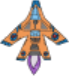
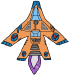
rocket_launcher mar ki rajzolodik + player(5hp), runner(5hp) kep elesites

Changed region(s): [[0.0, 0.0, 1.0, 1.0]]

diff --git a/enemies/rocket_launchers.py b/enemies/rocket_launchers.py
@@ -28,17 +28,17 @@ class RocketLauncher:
         self.dir_y = None
         self.health = 4
         self.STATE = RocketLauncher.STATE_INIT
-        self.form = None
+        self.form = pygame.image.load("Pictures/enemies_pictures/rocket_launchers/rocket_launcher_4_hp.png")
+        self.r = None
         self.start_time = 0
         self.speed = 75
 
-
     def draw(self, context: PygameContext):
-        r = pygame.Rect(self.x - self.width / 2,
+        self.r = pygame.Rect(self.x - self.width / 2,
                         self.y - self.height / 2, self.width,
                         self.height)
-        self.form = pygame.draw.rect(context.screen, (200, 200, 200), r)
-
+        context.screen.blit(self.form, self.r)
+        #self.form = pygame.draw.rect(context.screen, (200, 200, 200), r)
 
     def control(self, context: PygameContext, player: Player, rockets: Rockets):
         if self.STATE == RocketLauncher.STATE_INIT:
@@ -76,9 +76,8 @@ class RocketLauncher:
         if self.health <= 0:
             self.STATE = RocketLauncher.STATE_KILL
 
-
     def contacts(self, bullet: Bullet):
-        if bullet.form.colliderect(self.form) and bullet.attacker == "friend":
+        if bullet.form.colliderect(self.r) and bullet.attacker == "friend":
             bullet.sharp = False
             self.health = self.health - 1
 
@@ -87,12 +86,10 @@ class RocketLaunchers:
     def __init__(self):
         self.elements = []
 
-
     def spawn(self, context: PygameContext):
         x = random.randint(0, context.width)
         y = -RocketLauncher.height
         self.elements.append(RocketLauncher(x, y))
-
 
     def draw(self, context: PygameContext):
         for rocket_launcher in self.elements:
